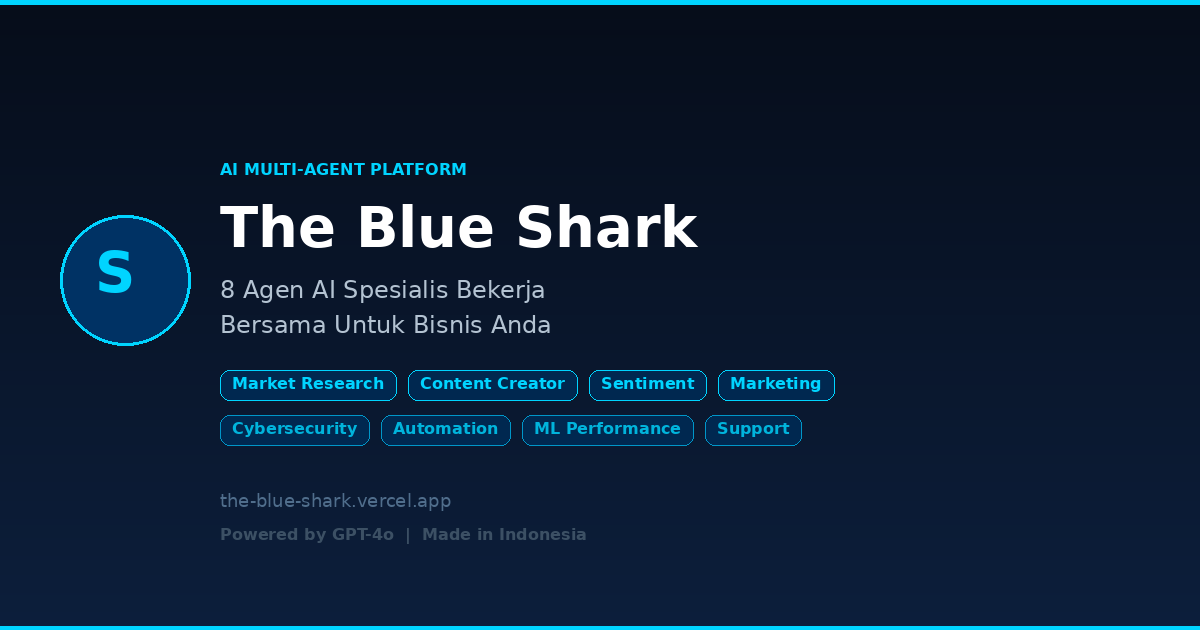
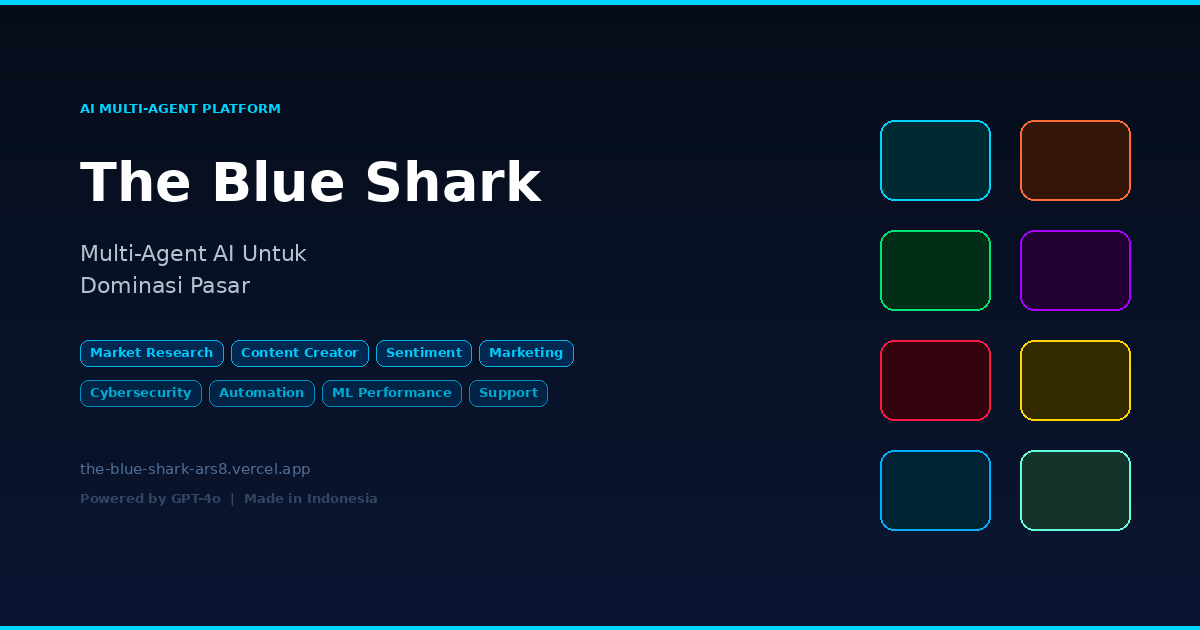
fix: tagline baru + fix OG image WhatsApp preview

diff --git a/app/layout.js b/app/layout.js
@@ -18,13 +18,13 @@ export const metadata = {
     url: 'https://the-blue-shark-ars8.vercel.app',
     siteName: 'The Blue Shark',
     title: 'The Blue Shark — AI Multi-Agent Platform Indonesia',
-    description: '8 agen AI spesialis bekerja bersama untuk bisnis Anda. Riset pasar, content creation, analisis sentimen, optimasi pemasaran, dan lebih banyak lagi.',
+    description: 'Multi-Agent AI untuk dominasi pasar. Riset pasar, content creation, analisis sentimen, optimasi pemasaran, dan lebih banyak lagi.',
     images: [{ url: '/og-image.png', width: 1200, height: 630, alt: 'The Blue Shark - AI Multi-Agent Platform' }],
   },
   twitter: {
     card: 'summary_large_image',
     title: 'The Blue Shark — AI Multi-Agent Platform',
-    description: '8 agen AI spesialis bekerja bersama untuk bisnis Anda. Platform AI pertama di Indonesia.',
+    description: 'Multi-Agent AI untuk dominasi pasar. Platform AI pertama di Indonesia.',
     images: ['/og-image.png'],
   },
   robots: {

diff --git a/app/landing/page.js b/app/landing/page.js
@@ -156,7 +156,7 @@ export default function LandingPage() {
           fontSize: isMobile ? 28 : 52, fontWeight: 800, lineHeight: 1.15, marginBottom: 20, letterSpacing: -1,
           background: 'linear-gradient(135deg, #fff 0%, #00d4ff 50%, #aa00ff 100%)',
           WebkitBackgroundClip: 'text', WebkitTextFillColor: 'transparent',
-        }}>8 Agen AI Bekerja Bersama Untuk Bisnis Anda</h1>
+        }}>Multi-Agent AI Untuk Dominasi Pasar</h1>
         <p style={{ fontSize: isMobile ? 15 : 18, color: 'rgba(255,255,255,0.5)', lineHeight: 1.7, maxWidth: 600, margin: '0 auto 40px' }}>
           Platform AI Multi-Agent pertama di Indonesia yang menggabungkan riset pasar, pembuatan konten, analisis sentimen, dan optimasi pemasaran dalam satu platform.
         </p>
